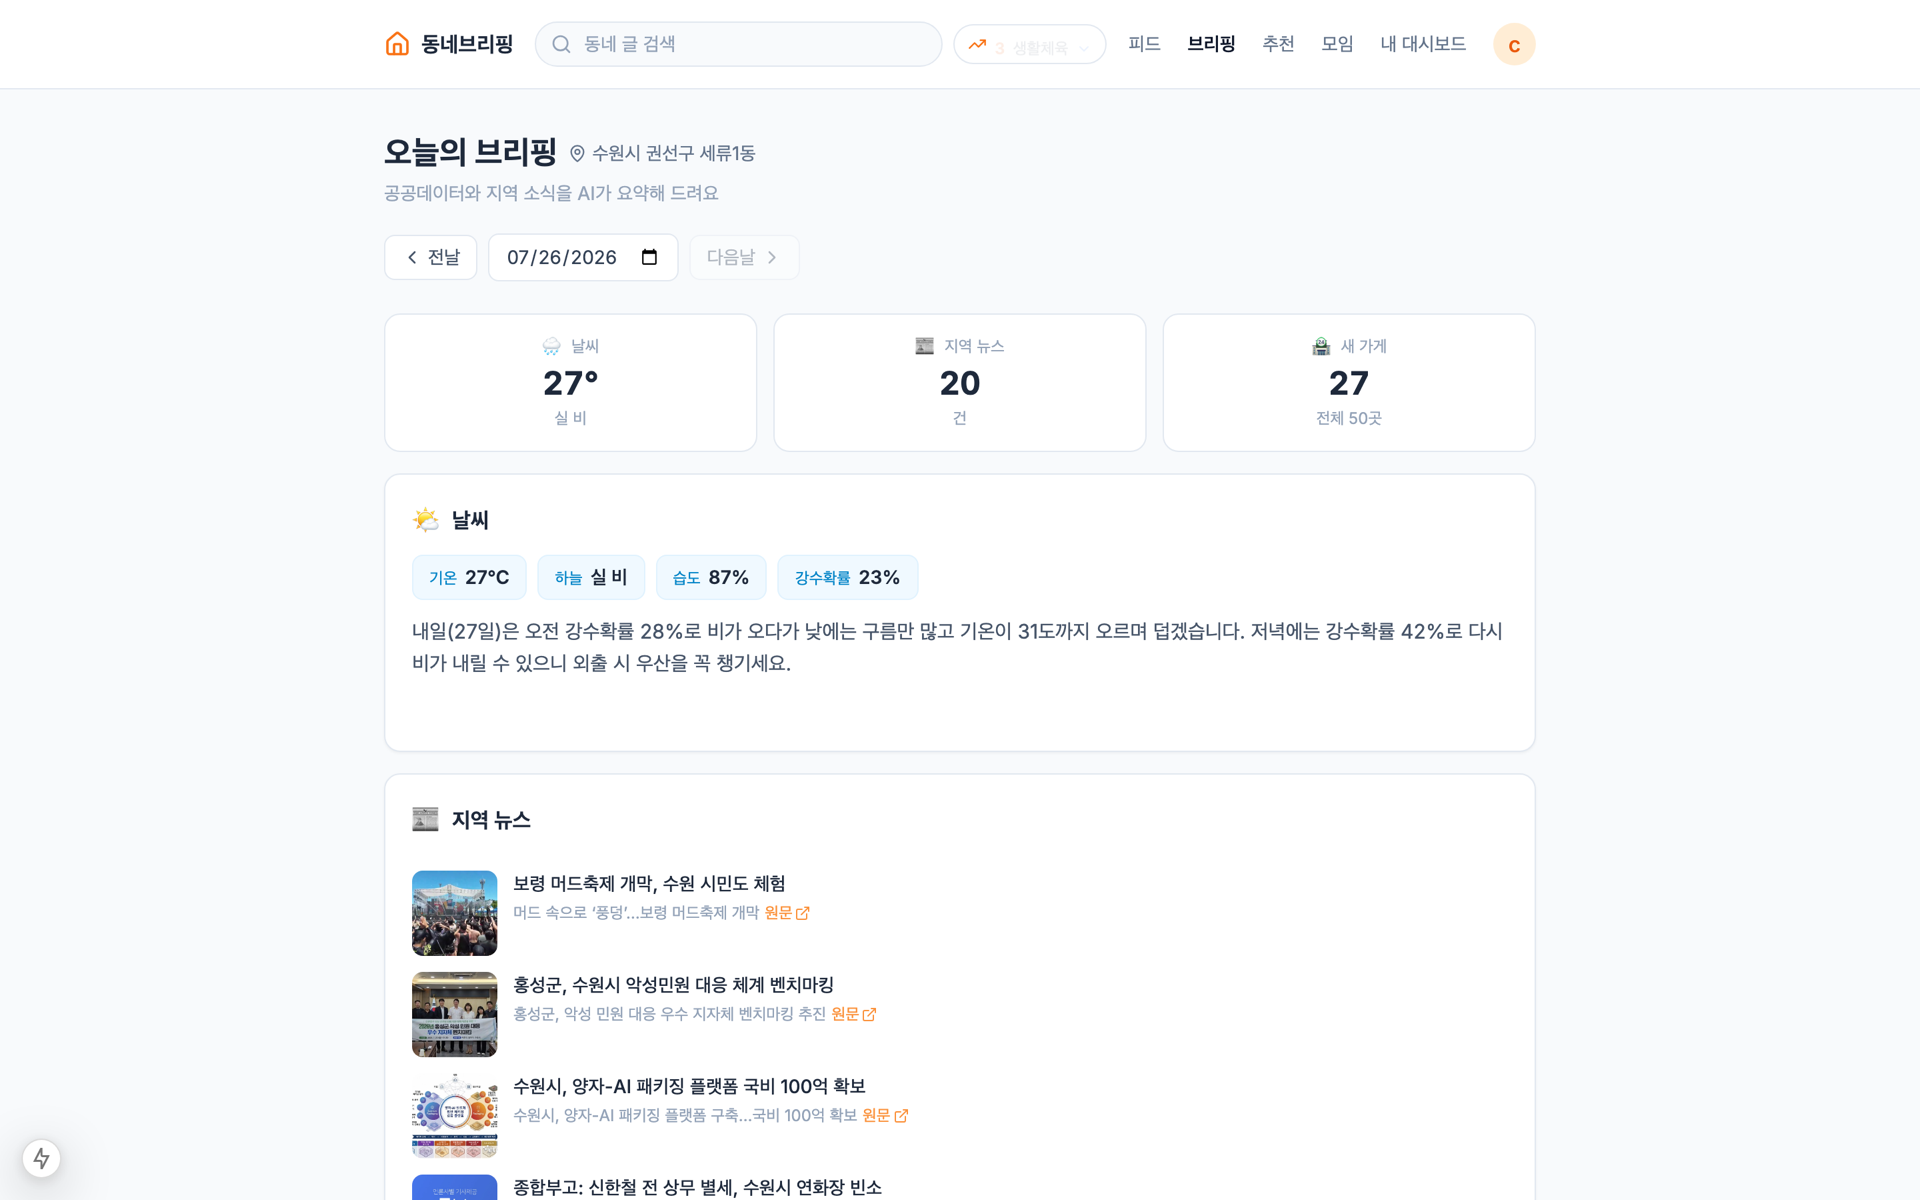
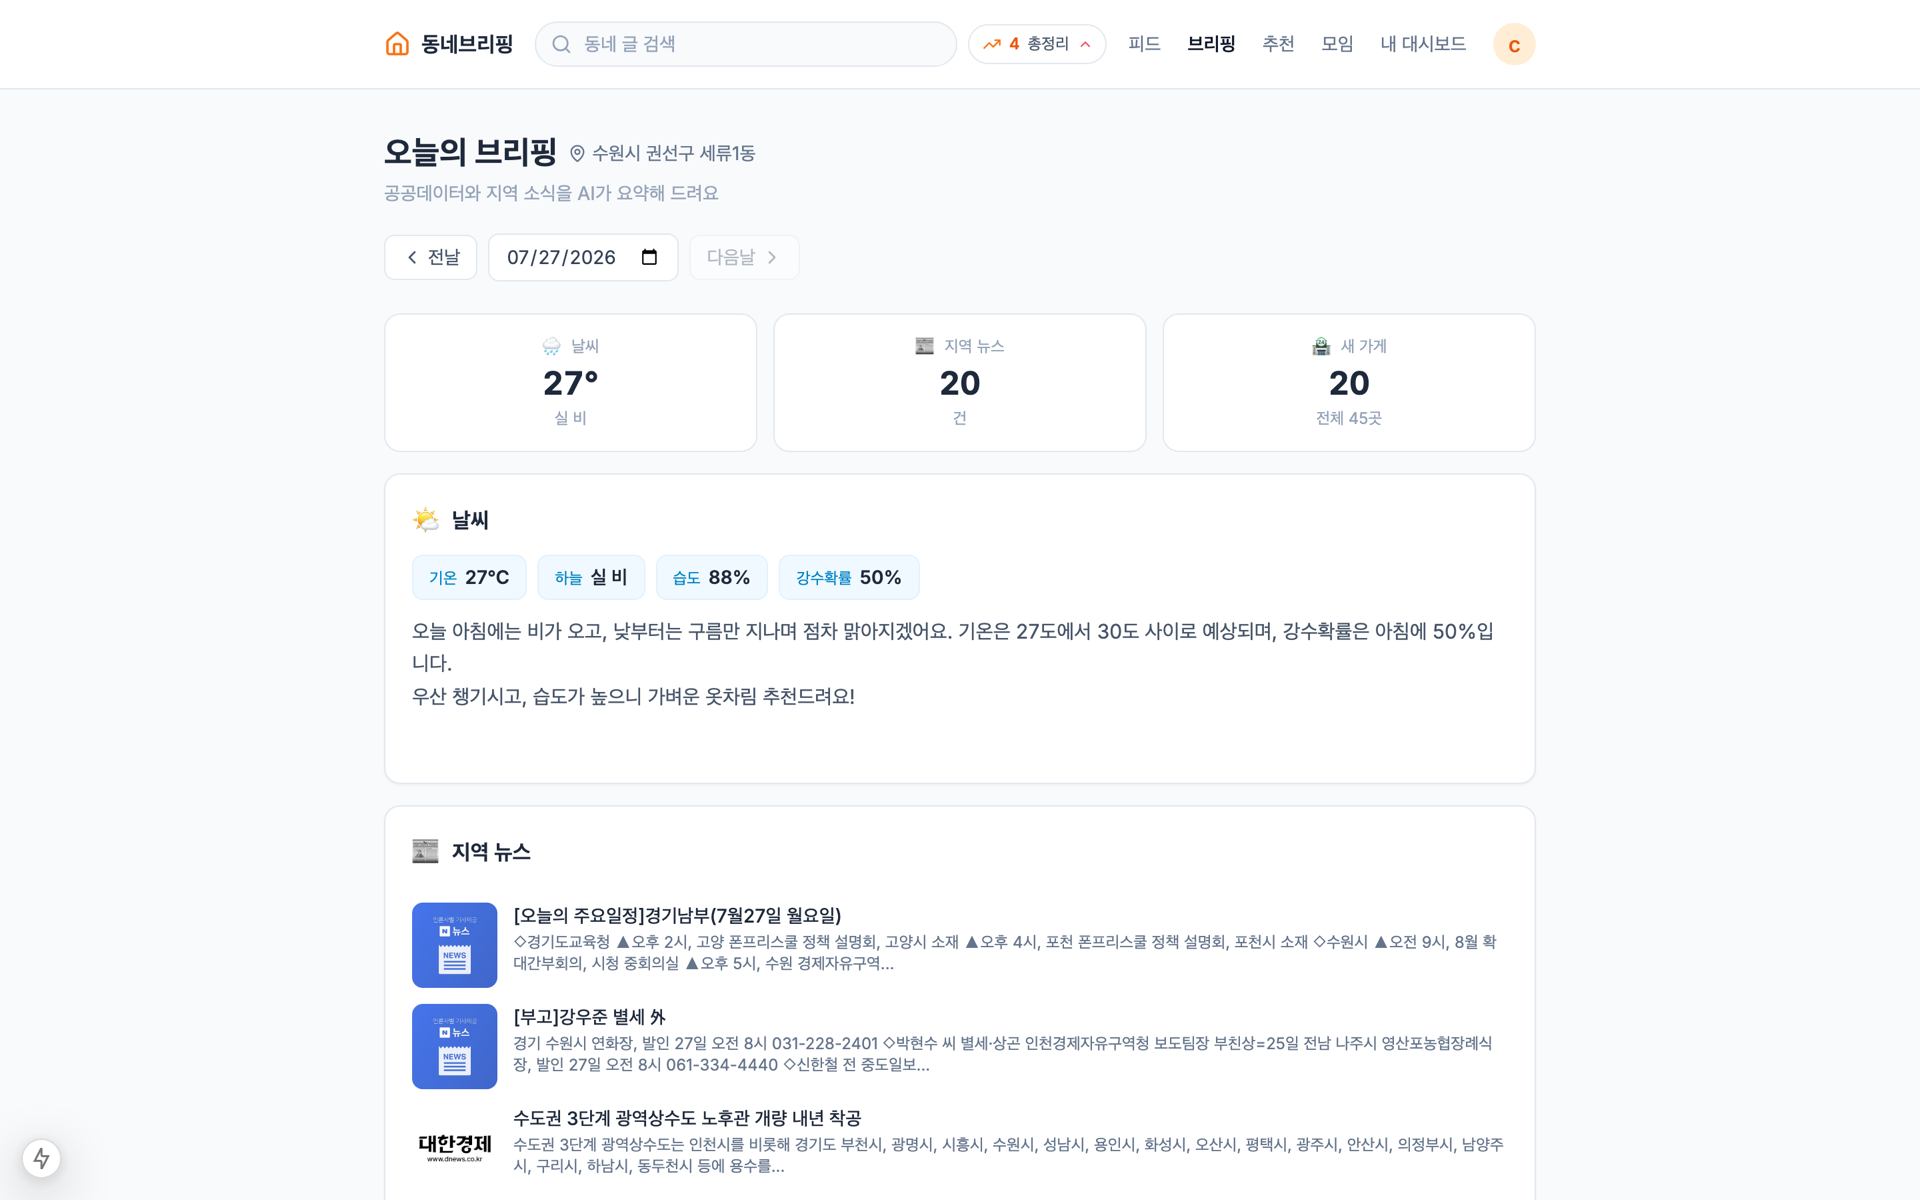
docs(dongne): 실제로 접속 가능한 주소로 교체
슬라이드의 브라우저 창 주소가 전부 dongne.me였는데 그 도메인은 아직
없다. 발표 중에 열어 볼 수 없는 주소를 띄워 두는 셈이라
dev.dongne.online으로 바꿨다.

마무리 슬라이드도 '지금 바로 써 보기'로 바꾸고 접속 방법을 덧붙였다.
캡처는 오늘자 데이터로 다시 찍었다.

diff --git a/presentations/dongne-progress/index.html b/presentations/dongne-progress/index.html
@@ -3,7 +3,7 @@
 <head>
 <meta charset="UTF-8">
 <meta name="viewport" content="width=device-width, initial-scale=1.0">
-<title>dongne.me 진행 발표 | AJOU BUILD 2026</title>
+<title>dongne 진행 발표 | AJOU BUILD 2026</title>
 <link href="https://fonts.googleapis.com/css2?family=Syne:wght@400;600;700;800&family=Inter:wght@300;400;500&family=JetBrains+Mono:wght@400;500&family=Noto+Sans+KR:wght@300;400;700;900&display=swap" rel="stylesheet">
 <style>
 *, *::before, *::after { margin:0; padding:0; box-sizing:border-box; }
@@ -466,7 +466,7 @@ img, video, canvas, svg { max-width:100%; max-height:100%; }
         </div>
       </div>
       <div class="split-shot reveal r4">
-        <div class="shot"><div class="shot-bar"><span class="shot-dot"></span><span class="shot-dot"></span><span class="shot-dot"></span><span class="shot-url">dongne.me/feed</span></div>
+        <div class="shot"><div class="shot-bar"><span class="shot-dot"></span><span class="shot-dot"></span><span class="shot-dot"></span><span class="shot-url">dev.dongne.online/feed</span></div>
           <div class="shot-clip" style="height:560px;"><img src="shots/feed-top.png" alt="동네 피드"></div></div>
       </div>
     </div>
@@ -495,7 +495,7 @@ img, video, canvas, svg { max-width:100%; max-height:100%; }
         </div>
       </div>
       <div class="split-shot reveal r4">
-        <div class="shot"><div class="shot-bar"><span class="shot-dot"></span><span class="shot-dot"></span><span class="shot-dot"></span><span class="shot-url">dongne.me/feed — 장소가 붙은 카드</span></div>
+        <div class="shot"><div class="shot-bar"><span class="shot-dot"></span><span class="shot-dot"></span><span class="shot-dot"></span><span class="shot-url">dev.dongne.online/feed — 장소가 붙은 카드</span></div>
           <div class="shot-clip" style="height:560px;"><img src="shots/feed-scroll.png" alt="장소가 붙은 피드 카드"></div></div>
       </div>
     </div>
@@ -521,7 +521,7 @@ img, video, canvas, svg { max-width:100%; max-height:100%; }
         </ul>
       </div>
       <div class="split-shot reveal r4">
-        <div class="shot"><div class="shot-bar"><span class="shot-dot"></span><span class="shot-dot"></span><span class="shot-dot"></span><span class="shot-url">dongne.me/places</span></div>
+        <div class="shot"><div class="shot-bar"><span class="shot-dot"></span><span class="shot-dot"></span><span class="shot-dot"></span><span class="shot-url">dev.dongne.online/places</span></div>
           <div class="shot-clip" style="height:600px;"><img src="shots/places.png" alt="동네 지도"></div></div>
       </div>
     </div>
@@ -550,7 +550,7 @@ img, video, canvas, svg { max-width:100%; max-height:100%; }
         </div>
       </div>
       <div class="split-shot reveal r4">
-        <div class="shot"><div class="shot-bar"><span class="shot-dot"></span><span class="shot-dot"></span><span class="shot-dot"></span><span class="shot-url">dongne.me/settings</span></div>
+        <div class="shot"><div class="shot-bar"><span class="shot-dot"></span><span class="shot-dot"></span><span class="shot-dot"></span><span class="shot-url">dev.dongne.online/settings</span></div>
           <div class="shot-clip" style="height:560px;"><img src="shots/settings.png" alt="설정"></div></div>
       </div>
     </div>
@@ -603,7 +603,7 @@ img, video, canvas, svg { max-width:100%; max-height:100%; }
         </div>
       </div>
       <div class="split-shot reveal r4">
-        <div class="shot"><div class="shot-bar"><span class="shot-dot"></span><span class="shot-dot"></span><span class="shot-dot"></span><span class="shot-url">dongne.me/timeline</span></div>
+        <div class="shot"><div class="shot-bar"><span class="shot-dot"></span><span class="shot-dot"></span><span class="shot-dot"></span><span class="shot-url">dev.dongne.online/timeline</span></div>
           <div class="shot-clip" style="height:600px;"><img src="shots/timeline-day.png" alt="주간 추천 타임라인"></div></div>
       </div>
     </div>
@@ -712,7 +712,7 @@ img, video, canvas, svg { max-width:100%; max-height:100%; }
         </div>
       </div>
       <div class="split-shot reveal r4">
-        <div class="shot"><div class="shot-bar"><span class="shot-dot"></span><span class="shot-dot"></span><span class="shot-dot"></span><span class="shot-url">dongne.me/briefing</span></div>
+        <div class="shot"><div class="shot-bar"><span class="shot-dot"></span><span class="shot-dot"></span><span class="shot-dot"></span><span class="shot-url">dev.dongne.online/briefing</span></div>
           <div class="shot-clip" style="height:560px;"><img src="shots/briefing-top.png" alt="오늘의 브리핑"></div></div>
       </div>
     </div>
@@ -742,7 +742,7 @@ img, video, canvas, svg { max-width:100%; max-height:100%; }
         </div>
       </div>
       <div class="split-shot reveal r4">
-        <div class="shot"><div class="shot-bar"><span class="shot-dot"></span><span class="shot-dot"></span><span class="shot-dot"></span><span class="shot-url">dongne.me/groups</span></div>
+        <div class="shot"><div class="shot-bar"><span class="shot-dot"></span><span class="shot-dot"></span><span class="shot-dot"></span><span class="shot-url">dev.dongne.online/groups</span></div>
           <div class="shot-clip" style="height:560px;"><img src="shots/groups.png" alt="동네 모임"></div></div>
       </div>
     </div>
@@ -768,7 +768,7 @@ img, video, canvas, svg { max-width:100%; max-height:100%; }
         </ul>
       </div>
       <div class="split-shot reveal r4">
-        <div class="shot"><div class="shot-bar"><span class="shot-dot"></span><span class="shot-dot"></span><span class="shot-dot"></span><span class="shot-url">dongne.me/feed/new</span></div>
+        <div class="shot"><div class="shot-bar"><span class="shot-dot"></span><span class="shot-dot"></span><span class="shot-dot"></span><span class="shot-url">dev.dongne.online/feed/new</span></div>
           <div class="shot-clip" style="height:580px;"><img src="shots/compose.png" alt="글쓰기"></div></div>
       </div>
     </div>
@@ -801,7 +801,7 @@ img, video, canvas, svg { max-width:100%; max-height:100%; }
         </div>
       </div>
       <div class="split-shot reveal r4">
-        <div class="shot"><div class="shot-bar"><span class="shot-dot"></span><span class="shot-dot"></span><span class="shot-dot"></span><span class="shot-url">dongne.me/search?q=맛집</span></div>
+        <div class="shot"><div class="shot-bar"><span class="shot-dot"></span><span class="shot-dot"></span><span class="shot-dot"></span><span class="shot-url">dev.dongne.online/search?q=맛집</span></div>
           <div class="shot-clip" style="height:580px;"><img src="shots/search.png" alt="검색"></div></div>
       </div>
     </div>
@@ -830,7 +830,7 @@ img, video, canvas, svg { max-width:100%; max-height:100%; }
         </div>
       </div>
       <div class="split-shot reveal r4">
-        <div class="shot"><div class="shot-bar"><span class="shot-dot"></span><span class="shot-dot"></span><span class="shot-dot"></span><span class="shot-url">dongne.me/dashboard</span></div>
+        <div class="shot"><div class="shot-bar"><span class="shot-dot"></span><span class="shot-dot"></span><span class="shot-dot"></span><span class="shot-url">dev.dongne.online/dashboard</span></div>
           <div class="shot-clip" style="height:560px;"><img src="shots/dashboard.png" alt="내 대시보드"></div></div>
       </div>
     </div>
@@ -945,7 +945,7 @@ img, video, canvas, svg { max-width:100%; max-height:100%; }
         </div>
       </div>
       <div class="split-shot reveal r4">
-        <div class="shot"><div class="shot-bar"><span class="shot-dot"></span><span class="shot-dot"></span><span class="shot-dot"></span><span class="shot-url">api.dongne.me/docs</span></div>
+        <div class="shot"><div class="shot-bar"><span class="shot-dot"></span><span class="shot-dot"></span><span class="shot-dot"></span><span class="shot-url">dev.dongne.online/docs</span></div>
           <div class="shot-clip" style="height:560px;"><img src="shots/apidocs.png" alt="API 문서"></div></div>
       </div>
     </div>
@@ -1042,9 +1042,12 @@ img, video, canvas, svg { max-width:100%; max-height:100%; }
       그 위에 <b>지도 · 모임 · 소셜</b>이 새로 올라갔습니다. 배포 구성까지 끝났으니,
       이제 동네 데이터가 아니라 <b>동네 사람</b>을 모을 차례입니다.
     </div>
-    <div class="reveal r5" style="margin-top:38px;display:flex;gap:16px;align-items:center;">
-      <a href="https://dev.dongne.online" target="_blank" style="display:inline-flex;align-items:center;gap:10px;padding:16px 32px;background:var(--accent);color:var(--ink);font-family:var(--kr);font-weight:700;font-size:23px;text-decoration:none;">🌿 dev.dongne.online</a>
-      <span style="font-family:var(--mono);font-size:17px;letter-spacing:.1em;color:var(--muted);text-transform:uppercase;">github.com/SODA1127/dongne.me · leekijung@ajou.ac.kr</span>
+    <div class="reveal r5" style="margin-top:34px;display:flex;gap:18px;align-items:center;flex-wrap:wrap;">
+      <a href="https://dev.dongne.online" target="_blank" style="display:inline-flex;align-items:center;gap:10px;padding:16px 32px;background:var(--accent);color:var(--ink);font-family:var(--kr);font-weight:700;font-size:23px;text-decoration:none;">🌿 지금 바로 써 보기 — dev.dongne.online</a>
+      <span style="font-family:var(--kr);font-weight:300;font-size:19px;color:var(--muted);">구글 로그인 후 동만 고르면 끝 · API 문서 <b style="color:var(--paper);font-weight:500;">/docs</b></span>
+    </div>
+    <div class="reveal r6" style="margin-top:16px;font-family:var(--mono);font-size:16px;letter-spacing:.08em;color:var(--muted);text-transform:uppercase;">
+      github.com/SODA1127/dongne.me · leekijung@ajou.ac.kr
     </div>
   </div>
   <div class="footer"><span>CONFIDENTIAL</span><span><em>26</em> / 26</span></div>
